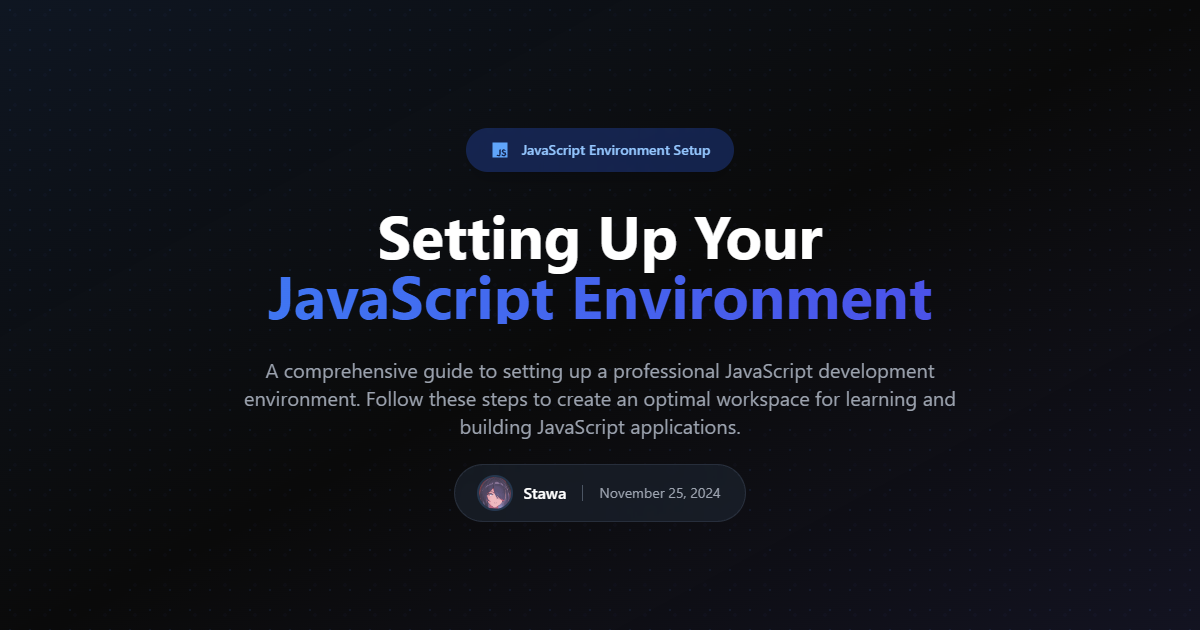
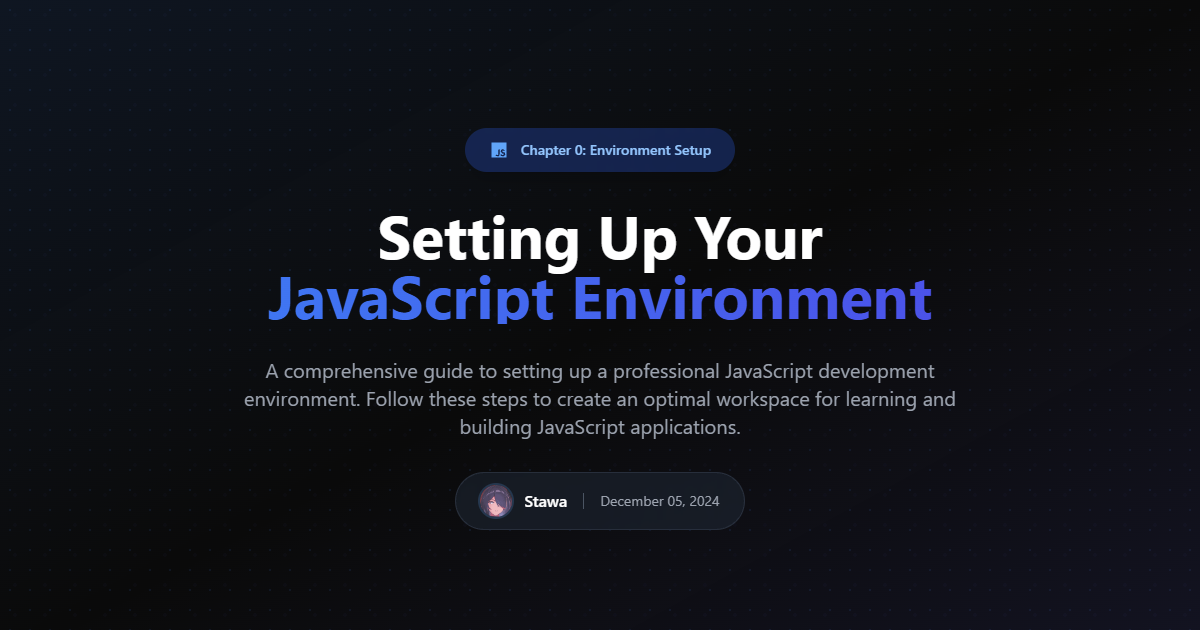
Small Update

Changed region(s): [[0.4008, 0.754, 0.6167, 0.8444], [0.4317, 0.2111, 0.5858, 0.2714]]

diff --git a/app/components/Courses/JavaScript/Start/FirstCode.tsx b/app/components/Courses/JavaScript/Start/FirstCode.tsx
@@ -1,5 +1,4 @@
 import { motion } from "framer-motion";
-import { FaGraduationCap } from "react-icons/fa";
 import { SiJavascript } from "react-icons/si";
 import { CourseMeta } from "~/types/course";
 import Navigation from "../../Navigation";
@@ -93,11 +92,11 @@ export function FirstJavaScriptCode() {
                 </div>
                 <div className="h-4 w-px bg-gray-300 dark:bg-gray-600"></div>
                 <time
-                  dateTime="2024-12-02"
-                  title="Written on December 2, 2024"
+                  dateTime="2024-12-05"
+                  title="Written on December 05, 2024"
                   className="text-gray-600 dark:text-gray-400 text-sm"
                 >
-                  December 2, 2024
+                  December 05, 2024
                 </time>
               </div>
             </div>
@@ -115,40 +114,29 @@ export function FirstJavaScriptCode() {
                 <h3 className="text-2xl font-bold text-gray-900 dark:text-white mb-6 pb-2 border-b-2 border-blue-500 dark:border-blue-400 inline-block">
                   Table of Contents
                 </h3>
-                <nav className="space-y-4">
-                  <a
-                    href="#intro"
-                    className="group flex items-center py-3 px-4 rounded-lg hover:bg-blue-50 dark:hover:bg-blue-900/50 transition-colors duration-200"
-                  >
-                    <span className="mr-3 text-blue-500 dark:text-blue-400 font-mono text-sm">
-                      00
-                    </span>
-                    <span className="text-gray-700 dark:text-gray-300 group-hover:text-blue-600 dark:group-hover:text-blue-400 transition-colors duration-200">
-                      Introduction
-                    </span>
-                  </a>
-                  <a
-                    href="#first-code"
-                    className="group flex items-center py-3 px-4 rounded-lg hover:bg-blue-50 dark:hover:bg-blue-900/50 transition-colors duration-200"
-                  >
-                    <span className="mr-3 text-blue-500 dark:text-blue-400 font-mono text-sm">
-                      01
-                    </span>
-                    <span className="text-gray-700 dark:text-gray-300 group-hover:text-blue-600 dark:group-hover:text-blue-400 transition-colors duration-200">
-                      Creating Your First JavaScript Code
-                    </span>
-                  </a>
-                  <a
-                    href="#summary"
-                    className="group flex items-center py-3 px-4 rounded-lg hover:bg-blue-50 dark:hover:bg-blue-900/50 transition-colors duration-200"
-                  >
-                    <span className="mr-3 text-blue-500 dark:text-blue-400 font-mono text-sm">
-                      02
-                    </span>
-                    <span className="text-gray-700 dark:text-gray-300 group-hover:text-blue-600 dark:group-hover:text-blue-400 transition-colors duration-200">
-                      Summary
-                    </span>
-                  </a>
+                <nav className="space-y-2">
+                  {[
+                    { id: "intro", title: "Introduction", number: "00" },
+                    {
+                      id: "first-code",
+                      title: "Creating Your First JavaScript Code",
+                      number: "01",
+                    },
+                    { id: "summary", title: "Summary", number: "02" },
+                  ].map((item) => (
+                    <a
+                      key={item.id}
+                      href={`#${item.id}`}
+                      className="flex items-center py-3 rounded-lg transition-all duration-300"
+                    >
+                      <span className="mr-3 text-blue-600 dark:text-blue-400 font-mono text-sm bg-blue-100 dark:bg-blue-900 px-2 py-1 rounded">
+                        {item.number}
+                      </span>
+                      <span className="text-gray-800 dark:text-gray-200 font-medium hover:text-blue-600 dark:hover:text-blue-400 transition-colors duration-300">
+                        {item.title}
+                      </span>
+                    </a>
+                  ))}
                 </nav>
               </div>
             </div>
@@ -218,7 +206,7 @@ export function FirstJavaScriptCode() {
                     JavaScript code.
                   </p>
                   <div className="grid grid-cols-1 md:grid-cols-2 gap-6 mb-8">
-                    <div className="rounded-b-xl overflow-hidden border border-blue-200 dark:border-blue-800">
+                    <div className="rounded-xl overflow-hidden border border-blue-200 dark:border-blue-800">
                       <img
                         src="/courses/NewFile_JS.png"
                         alt="Creating a new JavaScript file"
@@ -226,16 +214,15 @@ export function FirstJavaScriptCode() {
                       />
                       <div className="p-6">
                         <h4 className="text-xl font-bold text-gray-900 dark:text-white mb-3">
-                          Creating a New JavaScript File
+                          Create a New JavaScript File
                         </h4>
                         <p className="text-base text-gray-700 dark:text-gray-300 leading-relaxed">
-                          Start by creating a new file with a .js extension in
-                          your preferred code editor. This will be the
-                          foundation for your JavaScript code.
+                          Begin by creating a new file with the .js extension in
+                          your preferred code editor.
                         </p>
                       </div>
                     </div>
-                    <div className="rounded-b-xl overflow-hidden border border-blue-200 dark:border-blue-800">
+                    <div className="rounded-xl overflow-hidden border border-blue-200 dark:border-blue-800">
                       <img
                         src="/courses/FirstCode_JS.png"
                         alt="Writing Hello World in JavaScript"
@@ -316,13 +303,12 @@ export function FirstJavaScriptCode() {
                     Summary
                   </h2>
                   <p className="text-base md:text-lg text-gray-600 dark:text-gray-400 leading-relaxed mb-6">
-                    In this chapter, we've learned to write our very first
-                    JavaScript code and execute it in the terminal. We've also
-                    introduced the concept of a text editor or code editor that
-                    supports JavaScript syntax highlighting and indentation. The
-                    console.log function is used to print a message to the
-                    console, and you can change the message to whatever you
-                    want.
+                    In this chapter, we explored how to write and execute our
+                    first JavaScript code using the terminal. We introduced the
+                    console.log function, which allows us to display messages in
+                    the console. You can customize the message by modifying the
+                    content passed to the function, making it a versatile tool
+                    for debugging and testing code.
                   </p>
                   <p className="text-base md:text-lg text-gray-600 dark:text-gray-400 leading-relaxed">
                     Great job! You've successfully created your first JavaScript
@@ -335,9 +321,9 @@ export function FirstJavaScriptCode() {
               </motion.div>
             </div>
           </div>
-        </div>
-        <div className="mt-16">
-          <Navigation navigation={navigation} />
+          <div className="mt-16">
+            <Navigation navigation={navigation} />
+          </div>
         </div>
       </section>
     </div>

diff --git a/local/og/JavaScript.ts b/local/og/JavaScript.ts
@@ -1,4 +1,11 @@
-export const OpenGraph = () => {
+export const CourseOpenGraph = (
+  chapterNumber: string,
+  chapterTitle: string,
+  mainTitle: string,
+  gradientTitle: string,
+  description: string,
+  date: string
+) => {
   return `<section class="relative w-full py-16 md:py-24 lg:py-32 overflow-hidden">
     <div class="absolute inset-0">
       <div class="absolute inset-0 bg-[radial-gradient(circle_at_center,rgba(59,130,246,0.1)_1px,transparent_1px)] bg-[length:20px_20px]"></div>
@@ -13,21 +20,19 @@ export const OpenGraph = () => {
             <path d="M3 3h18v18H3V3zm16.525 13.707c-.131-.821-.666-1.511-2.252-2.155-.552-.259-1.165-.438-1.349-.854-.068-.248-.078-.382-.034-.529.113-.484.687-.629 1.137-.495.293.09.563.315.732.676.775-.507.775-.507 1.316-.844-.203-.314-.304-.451-.439-.586-.473-.528-1.103-.798-2.126-.775l-.528.067c-.507.124-.991.395-1.283.754-.855.968-.608 2.655.427 3.354 1.023.765 2.521.933 2.712 1.653.18.878-.652 1.159-1.475 1.058-.607-.136-.945-.439-1.316-1.002l-1.372.788c.157.359.337.517.607.832 1.305 1.316 4.568 1.249 5.153-.754.021-.067.18-.528.056-1.237l.034.049zm-6.737-5.434h-1.686c0 1.453-.007 2.898-.007 4.354 0 .924.047 1.772-.104 2.033-.247.517-.886.451-1.175.359-.297-.146-.448-.349-.623-.641-.047-.078-.082-.146-.095-.146l-1.368.844c.229.473.563.879.994 1.137.641.383 1.502.507 2.404.305.588-.17 1.095-.519 1.358-1.059.384-.697.302-1.553.299-2.509.008-1.541 0-3.083 0-4.635l.003-.042z"/>
           </svg>
           <span class="text-xs md:text-sm font-medium text-blue-600 dark:text-blue-300">
-            Chapter 1: Getting Started
+            Chapter ${chapterNumber}: ${chapterTitle}
           </span>
         </div>
   
         <h1 class="text-3xl md:text-5xl lg:text-6xl font-bold text-gray-900 dark:text-white mb-4 md:mb-8 leading-tight">
-          Write Your First
+          ${mainTitle}
           <span class="block bg-gradient-to-r from-blue-500 to-indigo-600 bg-clip-text text-transparent drop-shadow-sm">
-            JavaScript Code
+            ${gradientTitle}
           </span>
         </h1>
   
         <p class="text-lg md:text-xl text-gray-600 dark:text-gray-400 max-w-3xl mx-auto leading-relaxed px-4 mb-8">
-          Begin your JavaScript journey by writing and understanding simple
-          programs. Learn the fundamentals of syntax, variables, and output
-          through hands-on examples.
+          ${description}
         </p>
   
         <div class="flex justify-center">
@@ -52,11 +57,11 @@ export const OpenGraph = () => {
             </div>
             <div class="h-4 w-px bg-gray-300 dark:bg-gray-600"></div>
             <time
-              datetime="2024-12-02"
-              title="Written on December 2, 2024"
+              datetime="${date}"
+              title="Written on ${date}"
               class="text-gray-600 dark:text-gray-400 text-sm"
             >
-              December 2, 2024
+              ${date}
             </time>
           </div>
         </div>
@@ -64,4 +69,43 @@ export const OpenGraph = () => {
     </div>
   </section>
   `;
+};
+
+export const IndexOpenGraph = () => {
+  return `
+  <section class="relative w-full py-24 sm:py-32 overflow-hidden">
+    <div class="absolute inset-0 bg-gradient-to-br from-blue-500 via-indigo-500 to-violet-500 opacity-90"></div>
+
+    <div class="absolute inset-0">
+      <div class="absolute inset-0 bg-[radial-gradient(circle_at_center,rgba(255,255,255,0.15)_1.5px,transparent_1.5px)] bg-[length:20px_20px] animate-pulse"></div>
+      <div class="absolute inset-0 bg-[radial-gradient(circle_at_center,rgba(255,255,255,0.1)_1px,transparent_1px)] bg-[length:30px_30px] animate-pulse" style="animation-delay: 1s;"></div>
+    </div>
+
+    <div class="relative z-10 w-full max-w-7xl mx-auto px-4 sm:px-6 lg:px-8">
+      <div class="w-full text-center">
+        <div class="inline-flex items-center space-x-3 px-6 py-2.5 mb-10 rounded-full bg-white/10 text-blue-50 backdrop-blur-md border border-white/20 shadow-lg">
+          <svg class="w-4 h-4" fill="currentColor" viewBox="0 0 20 20" xmlns="http://www.w3.org/2000/svg"><path fill-rule="evenodd" d="M10 18a8 8 0 100-16 8 8 0 000 16zm1-12a1 1 0 10-2 0v4a1 1 0 00.293.707l2.828 2.829a1 1 0 101.415-1.415L11 9.586V6z" clip-rule="evenodd"></path></svg>
+          <span class="text-base font-semibold tracking-wide">
+            10-Week Course
+          </span>
+        </div>
+
+        <h1 class="text-5xl sm:text-7xl lg:text-8xl font-black mb-10 leading-tight">
+          <span class="block text-white mb-3 text-shadow-lg">
+            The Art of
+          </span>
+          <span class="bg-gradient-to-r from-yellow-300 via-yellow-200 to-yellow-100 bg-clip-text text-transparent drop-shadow-2xl">
+            JavaScript
+          </span>
+        </h1>
+
+        <p class="text-xl sm:text-2xl text-blue-50 max-w-3xl mx-auto mb-8 leading-relaxed font-light tracking-wide">
+          Embark on a transformative journey from foundational concepts to
+          advanced mastery. Build real-world applications while learning
+          modern best practices.
+        </p>
+      </div>
+    </div>
+  </section>
+`;
 };

diff --git a/app/components/Courses/JavaScript/Start/Setup.tsx b/app/components/Courses/JavaScript/Start/Setup.tsx
@@ -8,6 +8,7 @@ import {
 } from "react-icons/fa";
 import { SiVisualstudiocode, SiJavascript } from "react-icons/si";
 import { Link } from "react-router-dom";
+import Navigation from "../../Navigation";
 
 export const SetupMetaData = {
   title: "TriWikiTech | JavaScript Setup",
@@ -105,7 +106,7 @@ export function JavaScriptSetup() {
             <div className="inline-flex items-center mb-6 md:mb-8 px-4 py-2 md:px-6 md:py-3 rounded-full bg-blue-50/80 dark:bg-blue-900/50 shadow-lg backdrop-blur-sm">
               <SiJavascript className="text-blue-500 dark:text-blue-400 mr-2 md:mr-3 w-4 h-4 md:w-5 md:h-5" />
               <span className="text-xs md:text-sm font-medium text-blue-600 dark:text-blue-300">
-                JavaScript Environment Setup
+                Chapter 0: Environment Setup
               </span>
             </div>
 
@@ -144,11 +145,11 @@ export function JavaScriptSetup() {
                 </div>
                 <div className="h-4 w-px bg-gray-300 dark:bg-gray-600"></div>
                 <time
-                  dateTime="2024-11-25"
-                  title="Written on November 25, 2024"
+                  dateTime="2024-12-05"
+                  title="Written on December 05, 2024"
                   className="text-gray-600 dark:text-gray-400 text-sm"
                 >
-                  November 25, 2024
+                  December 05, 2024
                 </time>
               </div>
             </div>
@@ -381,46 +382,8 @@ export function JavaScriptSetup() {
             </div>
           </motion.div>
 
-          {/* Course Navigation */}
-          <div className="mt-16 md:mt-24 mb-8 md:mb-12">
-            <div className="flex flex-col md:flex-row justify-between items-stretch gap-4 md:gap-6 mx-auto">
-              <Link
-                to={navigation.previous.href}
-                className="group flex items-center p-4 md:p-6 px-6 md:px-8 rounded-2xl bg-white dark:bg-gray-900 shadow-lg border border-blue-100/20 dark:border-blue-700/50 hover:shadow-xl transition-all duration-300"
-              >
-                <div className="flex items-center space-x-4 md:space-x-6">
-                  <div className="p-2 md:p-3 rounded-xl bg-blue-500 flex items-center justify-center">
-                    <FaArrowLeft className="w-4 h-4 md:w-5 md:h-5 text-white" />
-                  </div>
-                  <div className="flex flex-col">
-                    <span className="text-xs md:text-sm font-medium text-gray-600 dark:text-gray-400 mb-1">
-                      Previous Chapter
-                    </span>
-                    <span className="text-base md:text-lg font-bold text-gray-900 dark:text-white">
-                      {navigation.previous.title}
-                    </span>
-                  </div>
-                </div>
-              </Link>
-              <Link
-                to={navigation.next.href}
-                className="group flex items-center p-4 md:p-6 px-6 md:px-8 rounded-2xl bg-white dark:bg-gray-900 shadow-lg border border-blue-100/20 dark:border-blue-700/50 hover:shadow-xl transition-all duration-300"
-              >
-                <div className="flex items-center space-x-4 md:space-x-6">
-                  <div className="flex flex-col">
-                    <span className="text-xs md:text-sm font-medium text-gray-600 dark:text-gray-400 mb-1">
-                      Next Chapter
-                    </span>
-                    <span className="text-base md:text-lg font-bold text-gray-900 dark:text-white">
-                      {navigation.next.title}
-                    </span>
-                  </div>
-                  <div className="p-2 md:p-3 rounded-xl bg-blue-500 flex items-center justify-center">
-                    <FaArrowRight className="w-4 h-4 md:w-5 md:h-5 text-white" />
-                  </div>
-                </div>
-              </Link>
-            </div>
+          <div className="mt-16">
+            <Navigation navigation={navigation} />
           </div>
         </div>
       </section>

diff --git a/app/components/Footer.tsx b/app/components/Footer.tsx
@@ -115,12 +115,12 @@ function Footer({ translations }: FooterProps) {
         </div>
 
         <div className="mt-12 pt-8 border-t border-indigo-200 dark:border-indigo-700">
-          <div className="flex flex-wrap justify-between items-center">
+          <div className="flex flex-col md:flex-row justify-between items-center text-center md:text-left">
             <div className="w-full md:w-auto mb-4 md:mb-0">
               <p className="text-sm font-medium text-gray-600 dark:text-gray-400">
                 © {new Date().getFullYear()} {translations.allRightsReserved}
               </p>
-              <p className="text-sm text-gray-600 dark:text-gray-400 flex items-center mt-2">
+              <p className="text-sm text-gray-600 dark:text-gray-400 flex items-center justify-center md:justify-start mt-2">
                 <FaPencilAlt className="mr-2 text-indigo-500 dark:text-indigo-300" />
                 {translations.designedBy}
                 <Link
@@ -133,7 +133,7 @@ function Footer({ translations }: FooterProps) {
               </p>
             </div>
             {deploymentDate && (
-              <div className="inline-flex items-center px-4 py-2 rounded-full bg-indigo-100 dark:bg-indigo-900 text-indigo-800 dark:text-indigo-200">
+              <div className="inline-flex items-center px-4 py-2 rounded-full bg-indigo-100 dark:bg-indigo-900 text-indigo-800 dark:text-indigo-200 mt-4 md:mt-0">
                 <FaClock className="w-4 h-4 mr-2" />
                 <span className="text-sm font-medium">
                   Last updated: {deploymentDate}

diff --git a/local/og/Index.ts b/local/og/Index.ts
@@ -1,18 +1,30 @@
-import { OpenGraph as OpenGraphImageFirstCode } from "local/og/JavaScript/FirstCode";
-import { OpenGraph as OpenGraphImageSetup } from "local/og/JavaScript/Setup";
-import { OpenGraph as OpenGraphIndex } from "local/og/JavaScript/Index";
+import { CourseOpenGraph, IndexOpenGraph } from "local/og/JavaScript";
 
 export const OpenGraphs = {
   Index: {
-    og: OpenGraphIndex,
-    type: "JS",
-  },
-  FirstCode: {
-    og: OpenGraphImageFirstCode,
+    og: IndexOpenGraph(),
     type: "JS",
   },
   Setup: {
-    og: OpenGraphImageSetup,
+    og: CourseOpenGraph(
+      "0",
+      "Environment Setup",
+      "Setting Up Your",
+      "JavaScript Environment",
+      "A comprehensive guide to setting up a professional JavaScript development environment. Follow these steps to create an optimal workspace for learning and building JavaScript applications.",
+      "December 05, 2024"
+    ),
+    type: "JS",
+  },
+  FirstCode: {
+    og: CourseOpenGraph(
+      "1",
+      "Getting Started",
+      "Write Your First",
+      "JavaScript Code",
+      "Begin your JavaScript journey by writing and understanding simple programs. Learn the fundamentals of syntax, variables, and output through hands-on examples.",
+      "December 05, 2024"
+    ),
     type: "JS",
   },
 };

diff --git a/local/og.ts b/local/og.ts
@@ -72,7 +72,7 @@ async function generateOpenGraphImage(
           </style>
         </head>
         <body>
-          ${OpenGraphs[banner].og()}
+          ${OpenGraphs[banner].og}
         </body>
       </html>
     `;
